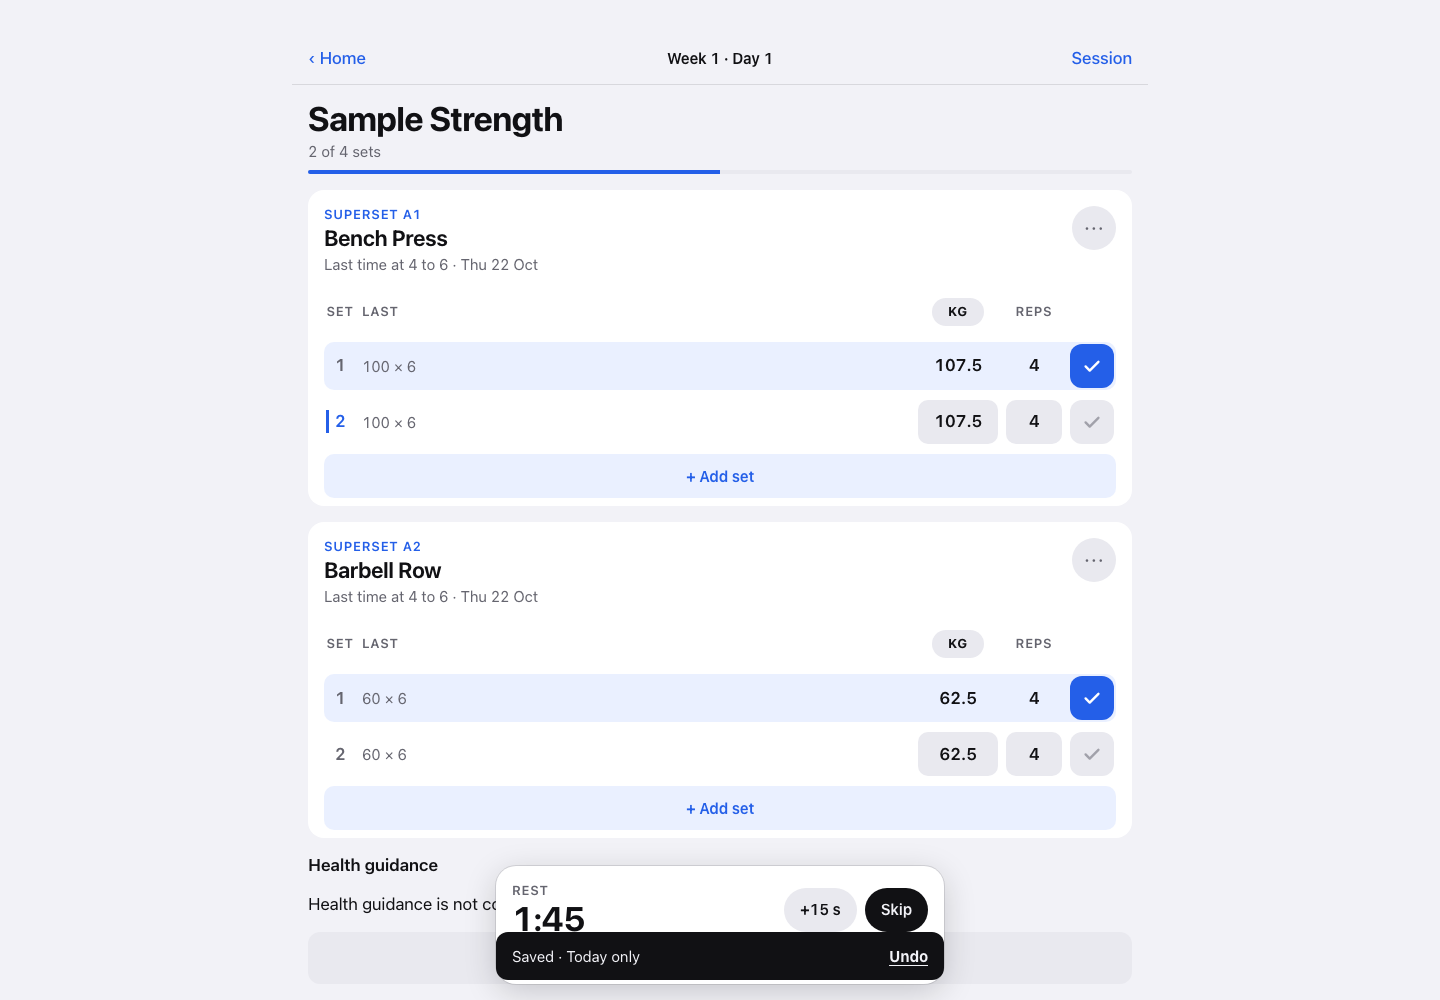
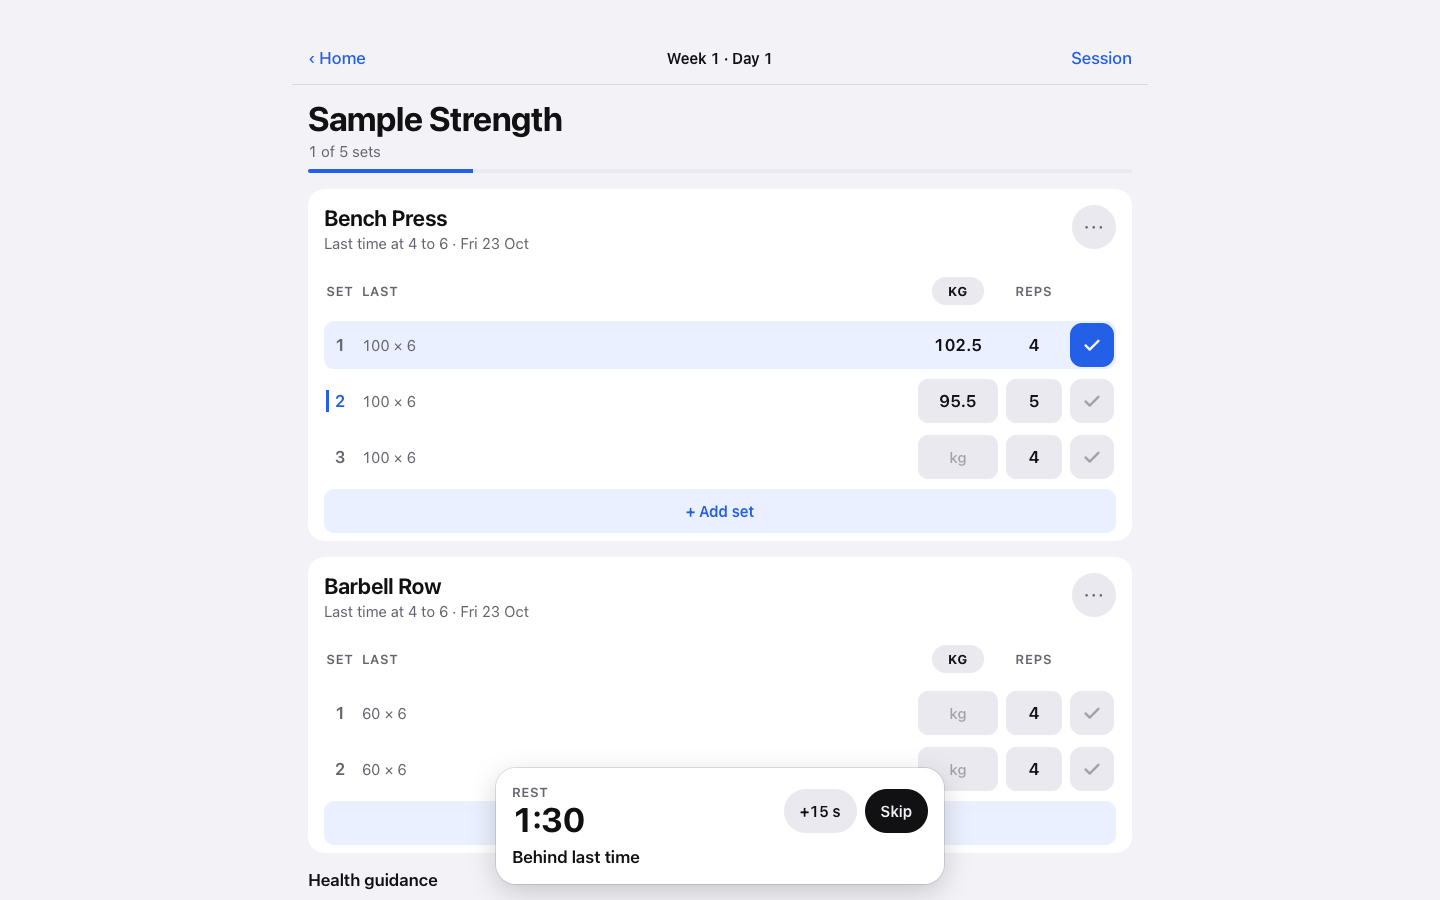
Show current private app features with invented records

diff --git a/README.md b/README.md
@@ -2,15 +2,20 @@
 
 My workout tracker for logging sets and seeing progress.
 
-**Status: in progress.** The latest improvements are deployed privately and pass deployment checks. A real iPhone workout test remains. Import review is not complete.
+**Status: in progress.** Progress charts, swipe removal, and blank weight entries are deployed privately. Health weight history is connected in the private release. A real iPhone workout test and import review remain.
 
 - Log weight and reps beside the previous session's sets.
+- Enter each weight or resume a saved draft. Swipe an exercise to reveal Remove, with Undo.
 - Resume unfinished entries and follow superset rounds.
 - Find favorite exercises and read why a target was suggested.
-- Review workout totals, muscle groups, and progress for each lift.
+- Filter lift progress and weekly work by body area, then open the recorded sets.
+- See training activity over 4 weeks, 12 weeks, a year, or all history.
+- See dated weight readings and a seven-day trend when Health is connected.
 
-![Superset workout with sample Bench Press and Barbell Row sets and rest controls](workout.png)
+![Workout with invented Bench Press and Barbell Row sets, a saved draft, and blank new weights](workout.png)
 
-![Progress view with sample workout totals and a Bench Press chart](progress.png)
+![Progress with sample Bench Press history, weekly work, and an activity calendar](progress.png)
 
-Screenshots use invented sample records. The working app and its data are private.
+[Phone Progress view](progress-phone.png). [Progress with sample weight history](weight.png).
+
+Screenshots use invented sample records. The working app and its data are private. The weight screenshot uses invented readings.
